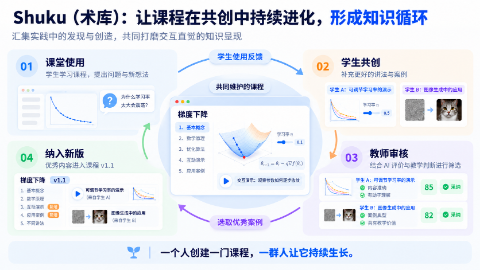
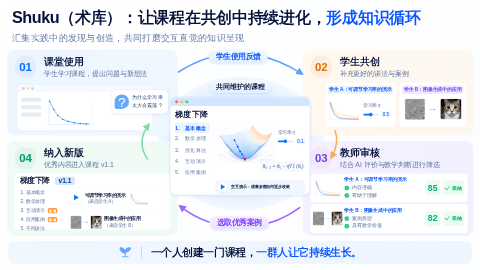
fix: render co-creation lesson text as selectable vector content

diff --git a/modules/Creator-Guide/pages/ShukuCoCreationLoop/LoopArtwork.css b/modules/Creator-Guide/pages/ShukuCoCreationLoop/LoopArtwork.css
@@ -1,0 +1,14 @@
+.scl-artwork{position:absolute;inset:0;background:linear-gradient(120deg,#fff,#fcfdff);color:#061139;user-select:text}
+.scl-art-heading{position:absolute;left:40px;top:24px;right:26px}.scl-art-heading h1{font-size:54px;line-height:1.25;letter-spacing:-1.6px;font-weight:850;margin:0;white-space:nowrap}.scl-art-heading h1 span{color:#0754ff}.scl-art-heading>p{font-size:30px;line-height:1.4;color:#627ba8;margin:12px 0 0;letter-spacing:1px}
+.scl-art-stage{position:absolute;border-radius:26px;padding:18px 24px;z-index:2;background:var(--scl-soft);overflow:visible}.scl-art-classroom{left:24px;top:165px;width:568px;height:287px;background:linear-gradient(115deg,#edf6ff,#f0f7ff)}.scl-art-creation{left:1010px;top:165px;width:568px;height:287px;background:linear-gradient(115deg,#fff9ef,#fcf7f0)}.scl-art-review{left:1010px;top:470px;width:568px;height:316px;background:linear-gradient(115deg,#f6f1ff,#f1f0ff)}.scl-art-release{left:24px;top:470px;width:568px;height:316px;background:linear-gradient(115deg,#effbf5,#f0faf5)}
+.scl-art-stage>header{display:flex;align-items:center;gap:24px;height:78px}.scl-art-number{display:grid;place-items:center;border-radius:50%;width:74px;height:74px;flex:none;background:color-mix(in srgb,var(--scl-accent) 12%,white);color:var(--scl-accent);font-size:38px;font-weight:800}.scl-art-stage h2{font-size:34px;line-height:1.25;font-weight:800;margin:0 0 5px}.scl-art-stage header p{font-size:23px;line-height:1.3;color:#5e75a2;margin:0;white-space:nowrap}.scl-art-expand{position:absolute;right:12px;top:12px;z-index:4;width:36px;height:36px;padding:0;border:1px solid #bcd4f7;border-radius:10px;background:#fff;color:#1468e2;font-size:23px!important;opacity:0;transition:opacity .15s}.scl-art-stage:hover .scl-art-expand,.scl-art-course:hover .scl-art-expand,.scl-art-expand:focus-visible{opacity:1}
+.scl-art-dots{display:flex;align-items:center;gap:7px;height:28px;padding:0 16px;background:#deebff;border-radius:16px 16px 0 0}.scl-art-dots i{width:10px;height:10px;border-radius:50%;background:#ff6668}.scl-art-dots i:nth-child(2){background:#ffc53c}.scl-art-dots i:nth-child(3){background:#45cf7b}.scl-art-plot{width:100%;height:100%;display:block}
+.scl-art-study{position:relative;margin:22px 10px 0;height:151px}.scl-art-study-window{position:absolute;inset:0 50px 0 0;background:#fff;box-shadow:0 2px 10px #166cdb0c;border-radius:15px;overflow:hidden}.scl-art-study-window>.scl-art-dots{height:24px;background:#f6faff}.scl-art-study-window .scl-art-dots i{width:8px;height:8px;opacity:.5}.scl-art-study-content{display:flex;gap:14px;padding:6px 12px}.scl-art-sidebars{display:grid;gap:11px;align-content:start;padding-top:12px;width:68px;flex:none}.scl-art-sidebars i{display:block;height:14px;background:#e8edf5;border-radius:5px}.scl-art-study-content>.scl-art-plot{width:155px;height:120px;border:1px solid #edf4ff;border-radius:10px}.scl-art-question{position:absolute;right:-3px;top:16px;display:flex;align-items:center;gap:10px;width:190px;padding:12px 10px;border:1px solid #e0edff;border-radius:15px;background:#fff;box-shadow:0 3px 8px #146bda14}.scl-art-question>span{display:grid;place-items:center;background:#65a9ff;color:#fff;border-radius:50% 50% 50% 6px;font-size:44px;width:48px;height:48px;flex:none}.scl-art-question p{font-size:17px;white-space:nowrap;line-height:1.6;color:#203d72;margin:0}
+.scl-art-contributions{display:grid;grid-template-columns:1fr 1fr;gap:13px;margin:15px 0 0 49px;height:148px}.scl-art-contribution{padding:9px;background:#fff;border-radius:12px;box-shadow:0 3px 10px #88652904}.scl-art-contribution h3{font-size:16px;line-height:1.4;color:#0754ff;background:#eaf4ff;border-radius:5px;white-space:nowrap;margin:0;padding:3px 5px;font-weight:750}.scl-art-contribution.is-image h3{color:#7942f2;background:#f1eaff}.scl-art-rate-preview{display:flex;align-items:center;gap:9px;padding-top:12px}.scl-art-rate-preview>.scl-art-plot{width:110px;height:84px;flex:none}.scl-art-rate{font-size:15px;color:#6077a5;white-space:nowrap}.scl-art-rate>div{display:flex;align-items:center;gap:7px;margin-top:10px}.scl-art-rate>div>i{position:relative;display:block;width:53px;height:6px;border-radius:4px;background:linear-gradient(to right,#0874ff 42%,#deebff 42%)}.scl-art-rate>div>i:after{content:'';position:absolute;top:-3px;left:19px;width:12px;height:12px;border-radius:50%;background:#0874ff}.scl-art-rate>div>span{padding:1px 5px;border-radius:4px;background:#edf5ff;color:#074cde}.scl-art-pair{display:flex;align-items:center;justify-content:center;gap:10px}.scl-art-pair img{display:block;object-fit:cover;width:70px;height:70px;border-radius:8px}.scl-art-pair>span{color:#75acff;font-size:29px;font-weight:800}.scl-art-contribution>.scl-art-pair{margin-top:16px}
+.scl-art-review-rows{display:grid;gap:7px;margin:13px -5px 0 0}.scl-art-review-row{display:flex;align-items:center;gap:10px;background:#fff;border-radius:13px;min-height:90px;padding:9px 12px}.scl-art-review-thumb{width:92px;height:62px;flex:none}.scl-art-review-thumb .scl-art-pair{height:100%;gap:3px}.scl-art-review-thumb .scl-art-pair img{width:37px;height:47px;border-radius:5px}.scl-art-review-thumb .scl-art-pair>span{font-size:19px}.scl-art-review-copy{flex:1;min-width:0}.scl-art-review-copy h3{font-size:16px;line-height:1.4;white-space:nowrap;color:#0754ff;margin:0 0 3px;font-weight:750}.scl-art-review-copy p{font-size:17px;line-height:1.25;color:#5873a1;margin:4px 0}.scl-art-review-copy p>span{display:inline-grid;place-items:center;width:16px;height:16px;border-radius:50%;margin-right:9px;color:#fff;background:#20ca80;font-size:12px}.scl-art-review-row>strong{color:#00b669;background:#eafbf1;font-size:29px;padding:9px;border-radius:12px}.scl-art-accepted{font-size:17px;font-weight:700;white-space:nowrap;padding:13px 7px;background:#ebfbf2;color:#00af68;border-radius:10px}
+.scl-art-new-course{margin:11px 0 0;background:#fff;border-radius:15px;padding:11px 18px;height:188px}.scl-art-new-course>h3{font-size:25px;line-height:1.1;margin:0 0 8px}.scl-art-new-course>h3>span{display:inline-block;color:#08397f;background:#d4e6ff;padding:2px 12px;border-radius:8px;margin-left:10px;font-size:22px}.scl-art-new-content{display:flex;gap:14px}.scl-art-new-content>ol{margin:0;padding-left:20px;width:146px;flex:none;color:#6078a4;font-size:16px;line-height:1.9}.scl-art-new-content>ol li>b{font-size:11px;color:white;background:#ff9e46;border-radius:5px;padding:3px 5px;margin-left:5px}.scl-art-added-items{display:grid;gap:7px;flex:1}.scl-art-added-items>div{display:flex;align-items:center;gap:9px;border:1px solid #f0f5fc;border-radius:10px;padding:6px 8px}.scl-art-added-items p{margin:0;line-height:1.5}.scl-art-added-items p>b{display:block;font-size:15px;white-space:nowrap}.scl-art-added-items small{display:block;color:#6177a4;font-size:15px}.scl-art-added-items .scl-art-plot{width:77px;height:45px}.scl-art-play{display:inline-grid;place-items:center;width:38px;height:38px;border-radius:50%;color:#0874ff;background:#fff;box-shadow:0 2px 6px #409aff28;font-size:22px;flex:none}.scl-art-added-items .scl-art-pair{gap:4px}.scl-art-added-items .scl-art-pair img{width:37px;height:44px;border-radius:5px}.scl-art-added-items .scl-art-pair>span{font-size:22px}
+.scl-art-halo{position:absolute;left:526px;top:255px;width:555px;height:445px;border-radius:50%;background:radial-gradient(ellipse,#e5f0ff 55%,#f5faff 75%,transparent 76%);z-index:0}.scl-art-arrows{position:absolute;inset:0;width:100%;height:100%;z-index:3;pointer-events:none}.scl-art-label{position:absolute;z-index:3;display:block;font-size:25px;font-weight:800;line-height:1;padding:10px 24px;border-radius:28px;background:linear-gradient(#f2f8ff,#e2efff);box-shadow:0 4px 7px #5a93d72b;color:#0754ff}.scl-art-feedback{left:695px;top:165px}.scl-art-maintained{left:697px;top:267px;color:#07133b;font-size:23px}.scl-art-selection{left:698px;top:720px;color:#7936fa;background:linear-gradient(#f6efff,#eae1ff)}
+.scl-art-course{position:absolute;left:566px;top:322px;width:468px;height:329px;z-index:3;border:2px solid #d3e5ff;background:#fff;border-radius:20px;box-shadow:0 4px 8px #71a5e41a;overflow:hidden}.scl-art-course>.scl-art-dots{background:#d3e5ff;height:29px}.scl-art-course-inner{padding:11px 15px}.scl-art-course h2{font-size:28px;line-height:1.2;margin:0 0 10px}.scl-art-course-content{display:flex;gap:14px}.scl-art-course-content>ol{list-style:none;padding:0 10px 0 0;border-right:1px solid #edf4fd;margin:0;width:128px;flex:none;color:#657aa5;font-size:18px;line-height:2.05}.scl-art-course-content>ol li:first-child{background:#eaf4ff;color:#0754ff;border-radius:8px;font-weight:700}.scl-art-surface{position:relative;flex:1;height:165px}.scl-art-surface>img{position:absolute;left:0;top:0;width:195px;height:135px;object-fit:contain}.scl-art-surface>.scl-art-rate{position:absolute;right:0;top:25px}.scl-art-formula{position:absolute;right:0;bottom:0;font-size:18px;font-family:Cambria,"Times New Roman",serif;color:#476aa1;border-radius:8px;background:#f6faff;padding:5px}.scl-art-course-demo{display:flex;align-items:center;gap:12px;margin:9px 0 0 135px;padding:6px 7px;border-radius:12px;background:#f0f7ff;font-size:13px;font-weight:650;white-space:nowrap}.scl-art-course-demo>.scl-art-play{width:34px;height:34px;font-size:20px}
+.scl-art-footer{position:absolute;left:27px;right:27px;top:803px;height:76px;border-radius:25px;background:linear-gradient(90deg,#f0f7ff,#edf5ff);display:flex;align-items:center;justify-content:center;gap:30px}.scl-art-footer>svg{width:47px;height:47px}.scl-art-footer>i{height:38px;width:1px;background:#408fff}.scl-art-footer>p{font-size:35px;font-weight:800;letter-spacing:.2px;margin:0}.scl-art-footer strong{color:#0754ff}
+.scl-original>.scl-art-stage{position:relative;left:auto;top:auto;width:100%;height:auto;min-height:325px;margin-top:0}.scl-original>.scl-art-course{position:relative;left:auto;top:auto;width:468px;margin:0 auto}.scl-original .scl-art-expand{display:none}.scl-original>.scl-art-stage p{margin:0}.scl-original .scl-art-contribution h3{font-size:17px;margin:0}.scl-original .scl-art-new-course{height:210px}.scl-original .scl-art-stage h2{font-size:34px}.scl-original .scl-art-question p{font-size:18px}.scl-original .scl-art-review-copy p{font-size:17px;margin:4px 0}.scl-original .scl-art-added-items p{margin:0}
+@media(prefers-reduced-motion:reduce){.scl-art-expand{transition:none}}

diff --git a/modules/Creator-Guide/pages/ShukuCoCreationLoop/LoopArtwork.tsx b/modules/Creator-Guide/pages/ShukuCoCreationLoop/LoopArtwork.tsx
@@ -1,0 +1,52 @@
+import {useId,type MouseEvent} from 'react';
+import surface from './assets/gradient-surface.png?url';
+import noise from './assets/noise.png?url';
+import cat from './assets/cat.png?url';
+import './LoopArtwork.css';
+
+export type LoopPanel = 'classroom'|'creation'|'review'|'release'|'course';
+export type OpenPanel = (panel:LoopPanel,button:HTMLButtonElement)=>void;
+const stages={
+ classroom:{number:'01',title:'课堂使用',subtitle:'学生学习课程，提出问题与新想法',tone:'blue'},
+ creation:{number:'02',title:'学生共创',subtitle:'补充更好的讲法与案例',tone:'orange'},
+ review:{number:'03',title:'教师审核',subtitle:'结合 AI 评价与教学判断进行筛选',tone:'purple'},
+ release:{number:'04',title:'纳入新版',subtitle:'优秀内容进入课程 v1.1',tone:'green'},
+} as const;
+function Plot({multiple=false}:{multiple?:boolean}){
+ return <svg className="scl-art-plot" viewBox="0 0 220 150" role="img" aria-label="随迭代逐步收敛的损失曲线"><path d="M15 12V136H210" stroke="#c1d8fa" strokeWidth="2" fill="none"/>{(multiple?[['#ffb52e','M18 24C55 100 84 105 120 112S177 119 208 122'],['#eb7065','M18 24C35 87 59 119 99 126S172 133 208 134'],['#0874ff','M18 24C31 103 56 130 99 133S172 136 208 136']]:[['#0874ff','M18 24C38 69 58 105 99 118S165 131 208 133']]).map(([color,d])=><path key={color} d={d} stroke={color} strokeWidth="2.5" fill="none"/>)}{!multiple&&[[18,24],[38,64],[57,93],[81,111],[107,121],[135,127],[164,131],[193,133]].map(([x,y])=><circle key={x} cx={x} cy={y} r="3.5" fill="#0874ff"/>)}</svg>;
+}
+function Dots(){return <div className="scl-art-dots" aria-hidden="true"><i/><i/><i/></div>;}
+function ImagePair(){return <div className="scl-art-pair"><img src={noise} alt="生成前的噪声图"/><span aria-hidden="true">→</span><img src={cat} alt="生成后的猫图"/></div>;}
+function Rate({value='0.5'}:{value?:string}){return <div className="scl-art-rate"><span>学习率 <i>η</i></span><div><i aria-hidden="true"/><span>{value}</span></div></div>;}
+function Contribution({kind}:{kind:'rate'|'image'}){
+ return <div className={'scl-art-contribution '+(kind==='image'?'is-image':'')}><h3>{kind==='rate'?'学生 A：可调节学习率的演示':'学生 B：图像生成中的应用'}</h3>{kind==='rate'?<div className="scl-art-rate-preview"><Plot multiple/><Rate/></div>:<ImagePair/>}</div>;
+}
+function StageContent({panel}:{panel:Exclude<LoopPanel,'course'>}){
+ if(panel==='classroom')return <div className="scl-art-study"><div className="scl-art-study-window"><Dots/><div className="scl-art-study-content"><div className="scl-art-sidebars" aria-hidden="true"><i/><i/><i/></div><Plot/></div></div><div className="scl-art-question"><span>?</span><p>为什么学习率<br/>太大会震荡？</p></div></div>;
+ if(panel==='creation')return <div className="scl-art-contributions"><Contribution kind="rate"/><Contribution kind="image"/></div>;
+ if(panel==='review')return <div className="scl-art-review-rows">{(['rate','image'] as const).map((kind,i)=><div key={kind} className="scl-art-review-row"><div className="scl-art-review-thumb">{kind==='rate'?<Plot multiple/>:<ImagePair/>}</div><div className="scl-art-review-copy"><h3>{i===0?'学生 A：可调节学习率的演示':'学生 B：图像生成中的应用'}</h3><p><span>✓</span>{i===0?'内容准确':'案例典型'}</p><p><span>✓</span>{i===0?'有助于理解':'具有教学价值'}</p></div><strong>{i===0?'85':'82'}</strong><span className="scl-art-accepted">✓ 采纳</span></div>)}</div>;
+ return <div className="scl-art-new-course"><h3>梯度下降 <span>v1.1</span></h3><div className="scl-art-new-content"><ol><li>基本概念</li><li>数学原理</li><li>互动演示 <b>新增</b></li><li>应用案例 <b>新增</b></li><li>不同讲法</li></ol><div className="scl-art-added-items"><div><span className="scl-art-play">▶</span><p><b>可调节学习率的演示</b><small>（来自学生 A）</small></p><Plot multiple/></div><div><ImagePair/><p><b>图像生成中的应用</b><small>（来自学生 B）</small></p></div></div></div></div>;
+}
+export function LoopStageCard({panel,onOpen}:{panel:Exclude<LoopPanel,'course'>;onOpen?:OpenPanel}){
+ const stage=stages[panel];
+ function openCard(event:MouseEvent<HTMLElement>){
+  if(!onOpen||window.getSelection()?.toString()||(event.target instanceof Element&&event.target.closest('button')))return;
+  const button=event.currentTarget.querySelector<HTMLButtonElement>('.scl-art-expand');if(button)onOpen(panel,button);
+ }
+ return <section className={`scl-art-stage scl-art-${panel} scl-${stage.tone}`} onClick={openCard}><header><span className="scl-art-number">{stage.number}</span><div><h2>{stage.title}</h2><p>{stage.subtitle}</p></div>{onOpen&&<button className="scl-art-expand" aria-label={'放大'+stage.title} aria-haspopup="dialog" onClick={e=>onOpen(panel,e.currentTarget)}>⤢</button>}</header><StageContent panel={panel}/></section>;
+}
+export function LoopCourseCard({onOpen}:{onOpen?:OpenPanel}){
+ return <section className="scl-art-course"><Dots/><div className="scl-art-course-inner"><h2>梯度下降</h2><div className="scl-art-course-content"><ol>{['基本概念','数学原理','优化算法','互动演示','应用案例'].map((text,i)=><li key={text}>{i+1}.　{text}</li>)}</ol><div className="scl-art-surface"><img src={surface} alt="梯度下降曲面与下降轨迹，无文字插图"/><Rate value="0.1"/><span className="scl-art-formula">θ<sub>t+1</sub> = θ<sub>t</sub> − η∇f (θ<sub>t</sub>)</span></div></div><div className="scl-art-course-demo"><span className="scl-art-play">▶</span><span>交互演示：观察参数如何逐步收敛</span></div></div>{onOpen&&<button className="scl-art-expand" aria-label="放大共同维护的课程" aria-haspopup="dialog" onClick={e=>onOpen('course',e.currentTarget)}>⤢</button>}</section>;
+}
+export function LoopArtwork({onOpen}:{onOpen:OpenPanel}){
+ const id=useId().replaceAll(':','');
+ return <div className="scl-artwork">
+  <header className="scl-art-heading"><h1>Shuku（术库）：让课程在共创中持续进化，<span>形成知识循环</span></h1><p>汇集实践中的发现与创造，共同打磨交互直觉的知识呈现</p></header>
+  <div className="scl-art-halo" aria-hidden="true"/>
+  <svg className="scl-art-arrows" viewBox="0 0 1600 900" aria-hidden="true"><defs>{[['blue','#5a9eff'],['orange','#ffa959'],['green','#7cdda3'],['purple','#9b64ff']].map(([name,color])=><marker key={name} id={id+name} viewBox="0 0 10 10" refX="8" refY="5" markerWidth="5" markerHeight="5" orient="auto"><path d="M0 0 10 5 0 10Z" fill={color}/></marker>)}</defs>{[['blue','M595 240C730 152 876 161 1008 247'],['orange','M1117 436Q1133 480 1103 526'],['purple','M999 692C879 780 717 780 599 686'],['green','M492 531Q452 471 497 414']].map(([color,d])=><path key={color} d={d} fill="none" stroke={({blue:'#5a9eff',orange:'#ffa959',purple:'#9b64ff',green:'#7cdda3'} as Record<string,string>)[color]} strokeWidth="5" strokeLinecap="round" markerEnd={`url(#${id+color})`}/>)}</svg>
+  <span className="scl-art-label scl-art-feedback">学生使用反馈</span><span className="scl-art-label scl-art-maintained">共同维护的课程</span><span className="scl-art-label scl-art-selection">选取优秀案例</span>
+  {(['classroom','creation','review','release'] as const).map(panel=><LoopStageCard key={panel} panel={panel} onOpen={onOpen}/>)}
+  <LoopCourseCard onOpen={onOpen}/>
+  <footer className="scl-art-footer"><svg viewBox="0 0 60 60" aria-hidden="true"><path d="M30 45V21M30 33C8 32 8 15 8 10c18 0 22 7 22 23M30 29C49 29 53 13 52 10c-17 0-22 5-22 19M18 48h24" fill="#63a5ff" stroke="#63a5ff" strokeWidth="4" strokeLinecap="round"/></svg><i aria-hidden="true"/><p>一个人创建一门课程，<strong>一群人让它持续生长。</strong></p></footer>
+ </div>;
+}

diff --git a/modules/Creator-Guide/pages/ShukuCoCreationLoop/ShukuCoCreationLoop.tsx b/modules/Creator-Guide/pages/ShukuCoCreationLoop/ShukuCoCreationLoop.tsx
@@ -1,20 +1,16 @@
 import {useEffect,useId,useReducer,useRef,useState,type KeyboardEvent} from 'react';
-import referenceImage from './assets/loop-reference.png?url';
+import {LoopArtwork,LoopStageCard,LoopCourseCard,type LoopPanel} from './LoopArtwork';
 import {canPublish,examples,gradientSteps,initialLoop,loopReducer} from './model';
 import './ShukuCoCreationLoop.css';
 
-type Panel = 'classroom' | 'creation' | 'review' | 'release' | 'course';
-const panels:Record<Panel,{title:string;subtitle:string;tone:string;box:readonly number[]}>= {
- classroom:{title:'课堂使用',subtitle:'学生学习课程，提出问题与新想法',tone:'blue',box:[25,173,593,300]},
- creation:{title:'学生共创',subtitle:'补充更好的讲法与案例',tone:'orange',box:[1054,173,595,300]},
- review:{title:'教师审核',subtitle:'结合 AI 评价与教学判断进行筛选',tone:'purple',box:[1054,491,595,331]},
- release:{title:'纳入新版',subtitle:'优秀内容进入课程 v1.1',tone:'green',box:[25,491,593,331]},
- course:{title:'共同维护的课程',subtitle:'梯度下降 · 从直觉理解到互动演示',tone:'blue',box:[592,336,488,345]},
+type Panel = LoopPanel;
+const panels:Record<Panel,{title:string;subtitle:string;tone:string}>= {
+ classroom:{title:'课堂使用',subtitle:'学生学习课程，提出问题与新想法',tone:'blue'},
+ creation:{title:'学生共创',subtitle:'补充更好的讲法与案例',tone:'orange'},
+ review:{title:'教师审核',subtitle:'结合 AI 评价与教学判断进行筛选',tone:'purple'},
+ release:{title:'纳入新版',subtitle:'优秀内容进入课程 v1.1',tone:'green'},
+ course:{title:'共同维护的课程',subtitle:'梯度下降 · 从直觉理解到互动演示',tone:'blue'},
 };
-function ReferenceCrop({box,label}:{box:readonly number[];label:string}) {
- const [x,y,w,h]=box;
- return <div className="scl-reference-crop" style={{aspectRatio:`${w}/${h}`}}><img src={referenceImage} alt={label} draggable={false} style={{width:`${1672/w*100}%`,left:`${-x/w*100}%`,top:`${-y/h*100}%`}}/></div>;
-}
 export function ShukuCoCreationLoop(){
  const [panel,setPanel]=useState<Panel|null>(null),[rate,setRate]=useState(0.1);
  const [state,dispatch]=useReducer(loopReducer,undefined,initialLoop);
@@ -39,13 +35,13 @@ export function ShukuCoCreationLoop(){
  const losses=gradientSteps(rate),accepted=examples.filter(e=>state.decisions[e.id]==='accepted');
  const points=losses.map((loss,i)=>`${24+i*29},${235-Math.min(loss,2)*105}`).join(' ');
  return <article ref={root} className="scl-page cg-shuku-cocreation-loop" aria-label="术库：让课程在共创中持续进化，形成知识循环" onKeyDown={keys}>
-  <img className="scl-reference" src={referenceImage} alt="Shuku（术库）：让课程在共创中持续进化，形成知识循环。课堂使用产生学生反馈，学生共创补充案例，教师审核筛选后纳入新版。一人创建，一群人让课程持续生长。" draggable={false}/>
-  {(Object.keys(panels) as Panel[]).map(key=>{const item=panels[key];return <button key={key} className={`scl-hotspot scl-${item.tone}`} style={{left:`${item.box[0]/1672*100}%`,top:`${item.box[1]/941*100}%`,width:`${item.box[2]/1672*100}%`,height:`${item.box[3]/941*100}%`}} aria-label={`放大${item.title}`} title={`点击体验：${item.title}`} aria-haspopup="dialog" onClick={event=>open(key,event.currentTarget)}/>;})}
+  <LoopArtwork onOpen={open}/>
   {current&&panel&&<div className={`scl-overlay scl-${current.tone}`}>
    <button className="scl-backdrop" tabIndex={-1} aria-label="关闭放大预览" onClick={close}/>
    <section ref={dialog} className="scl-dialog" role="dialog" aria-modal="true" aria-labelledby={id+'-title'} aria-describedby={id+'-description'}>
     <header className="scl-dialog-header"><div><span className="scl-eyebrow">术库 · 知识共创 / 交互示例</span><h2 id={id+'-title'}>{current.title}</h2><p id={id+'-description'}>{current.subtitle}</p></div><button className="scl-close" onClick={close} aria-label="收起放大预览">收起 ↗</button></header>
-    <div className="scl-dialog-body"><div className="scl-original"><ReferenceCrop box={current.box} label={current.title+' · 原图素材'}/><p>示例演示 · 操作仅保留在当前页面，不提交到真实课程。</p><nav aria-label="切换共创流程">{(['classroom','creation','review','release'] as Panel[]).map((key,i)=><button key={key} aria-pressed={panel===key} onClick={()=>setPanel(key)}>{String(i+1).padStart(2,'0')} {panels[key].title}</button>)}</nav></div>
+    <div className="scl-dialog-body"><div className="scl-original">{panel==='course'?<LoopCourseCard/>:<LoopStageCard panel={panel}/>}
+<p>示例演示 · 操作仅保留在当前页面，不提交到真实课程。</p><nav aria-label="切换共创流程">{(['classroom','creation','review','release'] as Panel[]).map((key,i)=><button key={key} aria-pressed={panel===key} onClick={()=>setPanel(key)}>{String(i+1).padStart(2,'0')} {panels[key].title}</button>)}</nav></div>
     <div className="scl-interaction">
      {(panel==='classroom'||panel==='course')&&<><span className="scl-kicker">梯度下降 · 可操作演示</span><h3>为什么学习率太大会震荡？</h3><p>调节学习率，观察同一个目标函数的损失怎样变化。</p><div className="scl-chart"><svg viewBox="0 0 550 260" role="img" aria-label={`学习率 ${rate.toFixed(2)} 的损失变化曲线`}><path d="M24 15V235H530" stroke="#c9d9f0" fill="none"/><polyline points={points} fill="none" stroke="#0874ff" strokeWidth="3"/>{losses.map((loss,i)=><circle key={i} cx={24+i*29} cy={235-Math.min(loss,2)*105} r="3.5" fill="#0874ff"/>)}</svg></div><label className="scl-slider">学习率 η <input aria-label="调整学习率" type="range" min="0.05" max="1" step="0.05" value={rate} onChange={e=>setRate(Number(e.target.value))}/><output>{rate.toFixed(2)}</output></label><p className="scl-observation" role="status">{rate===1?'此时参数在两侧来回跳动，损失没有下降。':rate>0.5?'参数在最低点两侧交替移动；接近 1 时，收敛变慢。':'损失逐步下降；学习率很小时，需要更多步才能接近最低点。'}</p><button className="scl-primary" onClick={()=>dispatch({type:'feedback'})}>{state.feedback?'✓ 已记录：希望补充学习率演示':'提出反馈：希望补充学习率演示'}</button>{state.feedback&&<button className="scl-link" onClick={()=>setPanel('creation')}>带着这个问题参与共创 →</button>}</>}
      {panel==='creation'&&<><span className="scl-kicker">从学习中的问题出发</span><h3>两位学生，两种改进</h3><p>共创先发生在个人版本中，正式课程保持原样。</p><div className="scl-examples">{examples.map(e=><section key={e.id}><span>{e.author}</span><h4>{e.title}</h4><p>{e.id==='learning-rate'?'加入可调节参数的互动演示，让学习者观察收敛与震荡。':'补充从噪声到图像的应用案例，把抽象概念联系到真实任务。'}</p></section>)}</div><button className="scl-primary" disabled={state.published} onClick={()=>{dispatch({type:'submit'});setPanel('review');}}>提交两项改进，进入审核 →</button>{state.published&&<p>本轮已发布，可在“纳入新版”中重置演示。</p>}</>}

diff --git a/modules/Creator-Guide/pages/ShukuCoCreationLoop/verify_browser.py b/modules/Creator-Guide/pages/ShukuCoCreationLoop/verify_browser.py
@@ -18,7 +18,13 @@ def verify(url, artifacts, chromium=None):
         errors=[]
         page.on('pageerror',lambda e:errors.append(str(e)))
         page.goto(url,wait_until='networkidle')
-        assert page.locator('.scl-reference').evaluate('(e)=>e.complete && e.naturalWidth===1672 && e.naturalHeight===941')
+        expect(page.locator('.scl-art-heading h1')).to_contain_text('形成知识循环')
+        expect(page.locator('.scl-artwork')).to_contain_text('为什么学习率')
+        expect(page.locator('.scl-art-review-copy').first).to_contain_text('内容准确')
+        # Course text must be actual selectable DOM text, never a slide screenshot.
+        assert page.locator('.scl-reference,.scl-reference-crop').count()==0
+        assert page.locator('.scl-art-heading h1').evaluate("(el)=>{const range=document.createRange();range.selectNodeContents(el);const selection=window.getSelection();selection.removeAllRanges();selection.addRange(range);const text=selection.toString();selection.removeAllRanges();return text.includes('形成知识循环');}")
+        assert page.locator('.scl-artwork img').evaluate_all("els=>els.every(e=>e.complete && e.naturalWidth>0 && /(?:cat|noise|gradient-surface)-/.test(e.src))")
         page.screenshot(path=str(artifacts/'overview.png'))
         page.get_by_role('button',name='放大课堂使用',exact=True).click()
         dialog=page.get_by_role('dialog')
@@ -52,7 +58,7 @@ def verify(url, artifacts, chromium=None):
             assert box['x']>=0 and box['y']>=0 and box['x']+box['width']<=1600 and box['y']+box['height']<=900
             page.keyboard.press('Escape')
         assert not errors, errors
-        report={'reference_loaded':True,'accepted_only_publication':True,'reset_and_keyboard':True,'javascript_errors':errors}
+        report={'selectable_vector_text':True,'accepted_only_publication':True,'reset_and_keyboard':True,'javascript_errors':errors}
         (artifacts/'verification.json').write_text(json.dumps(report,ensure_ascii=False,indent=2)+'\n')
         print(json.dumps(report,ensure_ascii=False))
         browser.close()

diff --git a/modules/Creator-Guide/pages/ShukuCoCreationLoop/README.md b/modules/Creator-Guide/pages/ShukuCoCreationLoop/README.md
@@ -1,11 +1,19 @@
 # 术库共创循环交互页
 
-独立入口：`import {ShukuCoCreationLoop} from './pages/ShukuCoCreationLoop'`，在 1600×900 课件画布中渲染 `<ShukuCoCreationLoop/>`。组件、样式、原图素材和演示状态均在本目录，不依赖课程后台或其他课程。复用时复制整个目录即可。
+独立入口：`import {ShukuCoCreationLoop} from './pages/ShukuCoCreationLoop'`，在 1600×900 课件画布中渲染 `<ShukuCoCreationLoop/>`。复制整个目录即可复用，不依赖后台或其他课程。
 
-概览直接使用用户提供的 `05shukupptLoop.png` 原图（本目录 `assets/loop-reference.png` 为逐字节副本），保持文字、配色、曲面、猫和案例等素材及布局一致。各卡片和中央课程是可点击、可键盘聚焦的热区；放大后用 CSS 裁切同一张图展示原素材，并提供真正可操作的演示。
+## 文字与视觉素材
 
-交互：点击课堂使用或中央课程调学习率；记录反馈；学生共创提交两个案例；教师分别采纳或退回；两项审核均完成且至少采纳一项时才能发布 v1.1；仅采纳项进入新版，重置可重新演示。评分为固定示例，所有操作只在内存中演示，不请求真实接口。支持 Escape 关闭、焦点恢复和对话框 Tab 焦点循环。
+`LoopArtwork.tsx` 和 `LoopArtwork.css` 重建参考图的四角流程、中央课程、箭头和配色。标题、说明、标签、问题、课程目录、学习率、公式、分数、版本与底部结语全部为可选中的 HTML 文字；图表和箭头为 SVG，放大不会像截图文字一样模糊。放大视图也复用这些文字组件，不裁切带字卡片。
 
-测试：`node --experimental-strip-types --test modules/Creator-Guide/pages/ShukuCoCreationLoop/model.test.mjs`。页面追加为 Creator-Guide 第 22 页，场景 ID `shuku-cocreation-loop`，自学锚点同名。
+`assets/` 仅有从用户提供的 `05shukupptLoop.png` 提取的三张无文字插图：梯度曲面、噪声与猫。运行时不加载整张参考图。课程导航缩略图仍为正常的截图，不作为课程正文使用。
 
-浏览器验收：在本机提供独立组件预览后，执行 `python modules/Creator-Guide/pages/ShukuCoCreationLoop/verify_browser.py --url http://127.0.0.1:18736 --artifacts /tmp/shuku-loop-check`，需要 Playwright Chromium，可通过 `--chromium` 指定可执行文件。输出概览、发布后截图及验证结果。
+## 交互
+
+点击卡片的放大按钮或非文字选择区域；课堂使用可调学习率、记录反馈；学生提交两个案例；教师分别采纳或退回；两项审核均完成且至少采纳一项才能发布 v1.1。仅采纳项进入新版，重置可重新演示。评分和操作均为本地教学示例。支持 Escape 关闭、焦点恢复与 Tab 焦点循环。
+
+Creator-Guide 第 22 页，场景 ID 与自学锚点均为 `shuku-cocreation-loop`。
+
+测试：`node --experimental-strip-types --test modules/Creator-Guide/pages/ShukuCoCreationLoop/model.test.mjs`。
+
+浏览器：提供本地独立组件预览后，运行 `python modules/Creator-Guide/pages/ShukuCoCreationLoop/verify_browser.py --url http://127.0.0.1:18736 --artifacts /tmp/shuku-loop-check`。需要 Playwright Chromium，可通过 `--chromium` 指定浏览器。验证可选择的真实文字、无整页截图、交互与键盘操作，并输出截图和结果。
